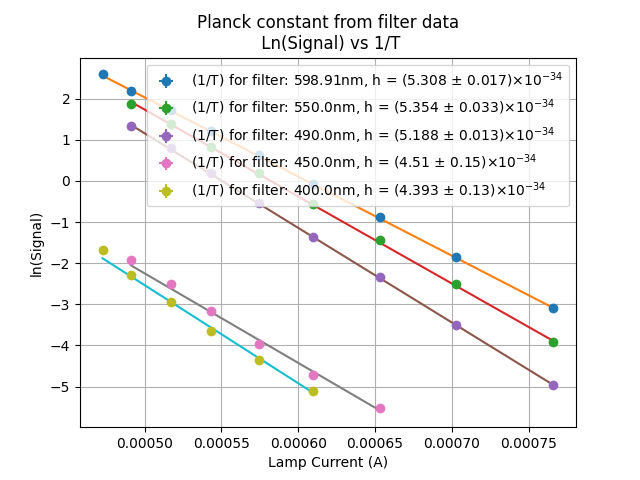
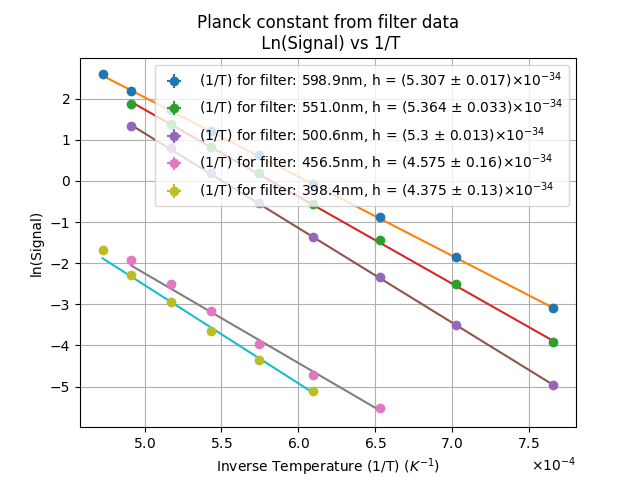
updated lambdas

Changed region(s): [[0.2188, 0.1562, 0.875, 0.4375], [0.1875, 0.9062, 0.75, 1.0], [0.7812, 0.9062, 0.9062, 1.0]]

diff --git a/cal_h_from_filter_data_voltage.py b/cal_h_from_filter_data_voltage.py
@@ -10,7 +10,7 @@ import functions as f
 from scipy.interpolate import CubicSpline
 import ast
 
-lambdas = [598.91e-9, 551e-9, 500.6e-9, 456.5e-9, 398.4e-9]
+lambdas = [598.9e-9, 551.0e-9, 500.6e-9, 456.5e-9, 398.4e-9]
 c = 2.99792e8
 h = 6.626e-34
 k_b = 1.380649e-23
@@ -119,7 +119,7 @@ for i in range(len(data_index)):
     # plotting the data
     plt.title('Planck constant from filter data\n Ln(Signal) vs 1/T')
     # plt.plot(x_values, signal,'x', label='(1/T) for filter: ' + str(round_to_significant_figure(lambda1*1e9, 4)) + "nm, h = (" + str(round_to_significant_figure(h_measured*1e34,3)) + " $\pm$ " + str(round_to_significant_figure(h_measured_uncert*1e34,1)) + ')$\\times 10^{-34}$')
-    plt.errorbar(x_values, signal, yerr=abs(filter_uncert), xerr=x_values_uncert, fmt='o', color=colors[i], label='(1/T) for filter: ' + str(round_to_significant_figure(lambda1*1e9, 4)) + "nm, h = (" + str(round_to_significant_figure(h_measured*1e34,1)) + " $\pm$ " + str(round_to_significant_figure(h_measured_uncert*1e34,0)) + ')$\\times 10^{-34}$')
+    plt.errorbar(x_values, signal, yerr=abs(filter_uncert), xerr=x_values_uncert, fmt='o', color=colors[i], label='(1/T) for filter: ' + str(round_to_significant_figure(lambda1*1e9, 5)) + "nm, h = (" + str(round_to_significant_figure(h_measured*1e34,2)) + " $\pm$ " + str(round_to_significant_figure(h_measured_uncert*1e34,0)) + ')$\\times 10^{-34}$')
     # plt.errorbar(x_values, signal, yerr=abs(filter_uncert), xerr=x_values_uncert, fmt='o', label="(1/T) for filter: {:.3f}, h = {:.3f} $\pm$ {:.1f} ".format(lambda1, h_measured, h_measured_uncert))
 
     plt.plot(x_values, f.linear_func(x_values,*optimal_params), color=colors[i]) #, label='y = {:.2f}x + {:.2f}'.format(optimal_params[0], optimal_params[1]))

diff --git a/cal_h_from_filter_data copy.py b/cal_h_from_filter_data copy.py
@@ -9,7 +9,8 @@ import scipy.optimize as opt
 import functions as f
 from scipy.interpolate import CubicSpline
 
-lambdas = [598.91e-9, 550e-9, 490e-9, 450e-9, 400e-9]
+# lambdas = [598.91e-9, 550e-9, 490e-9, 450e-9, 400e-9]
+lambdas = [598.9e-9, 551.0e-9, 500.6e-9, 456.5e-9, 398.4e-9]
 c = 2.99792e8
 h = 6.626e-34
 k_b = 1.380649e-23
